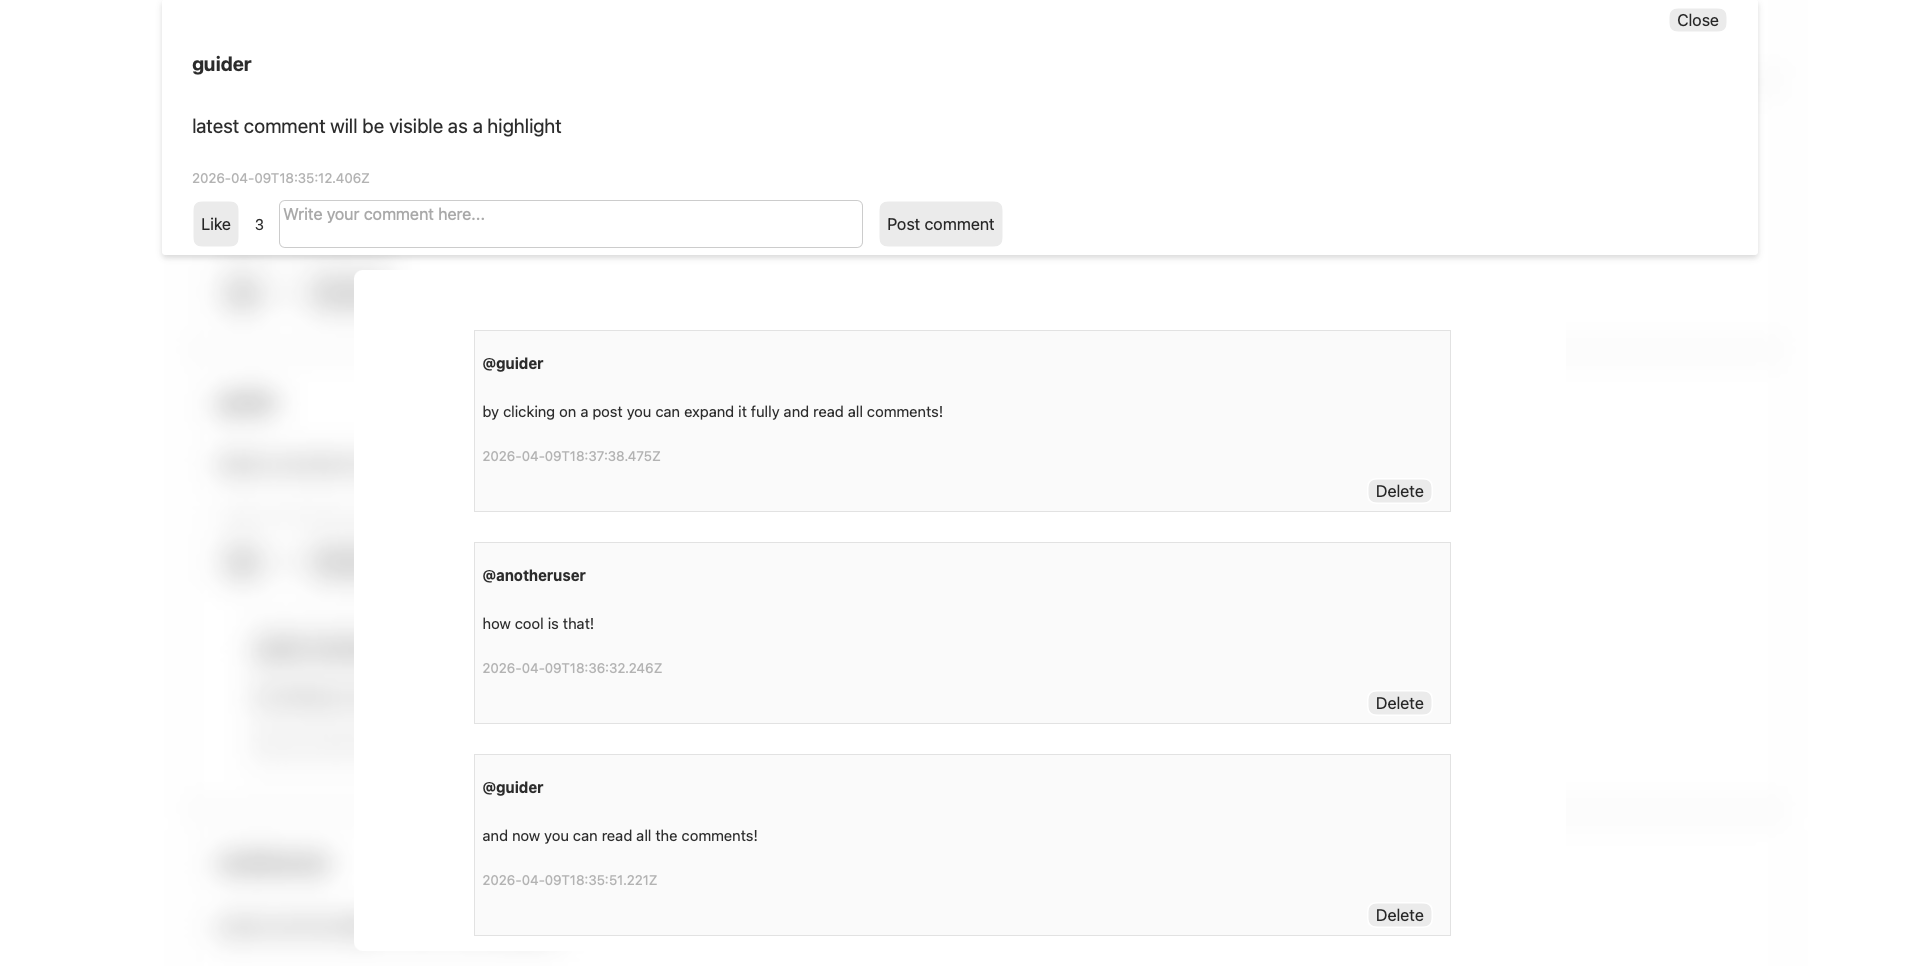
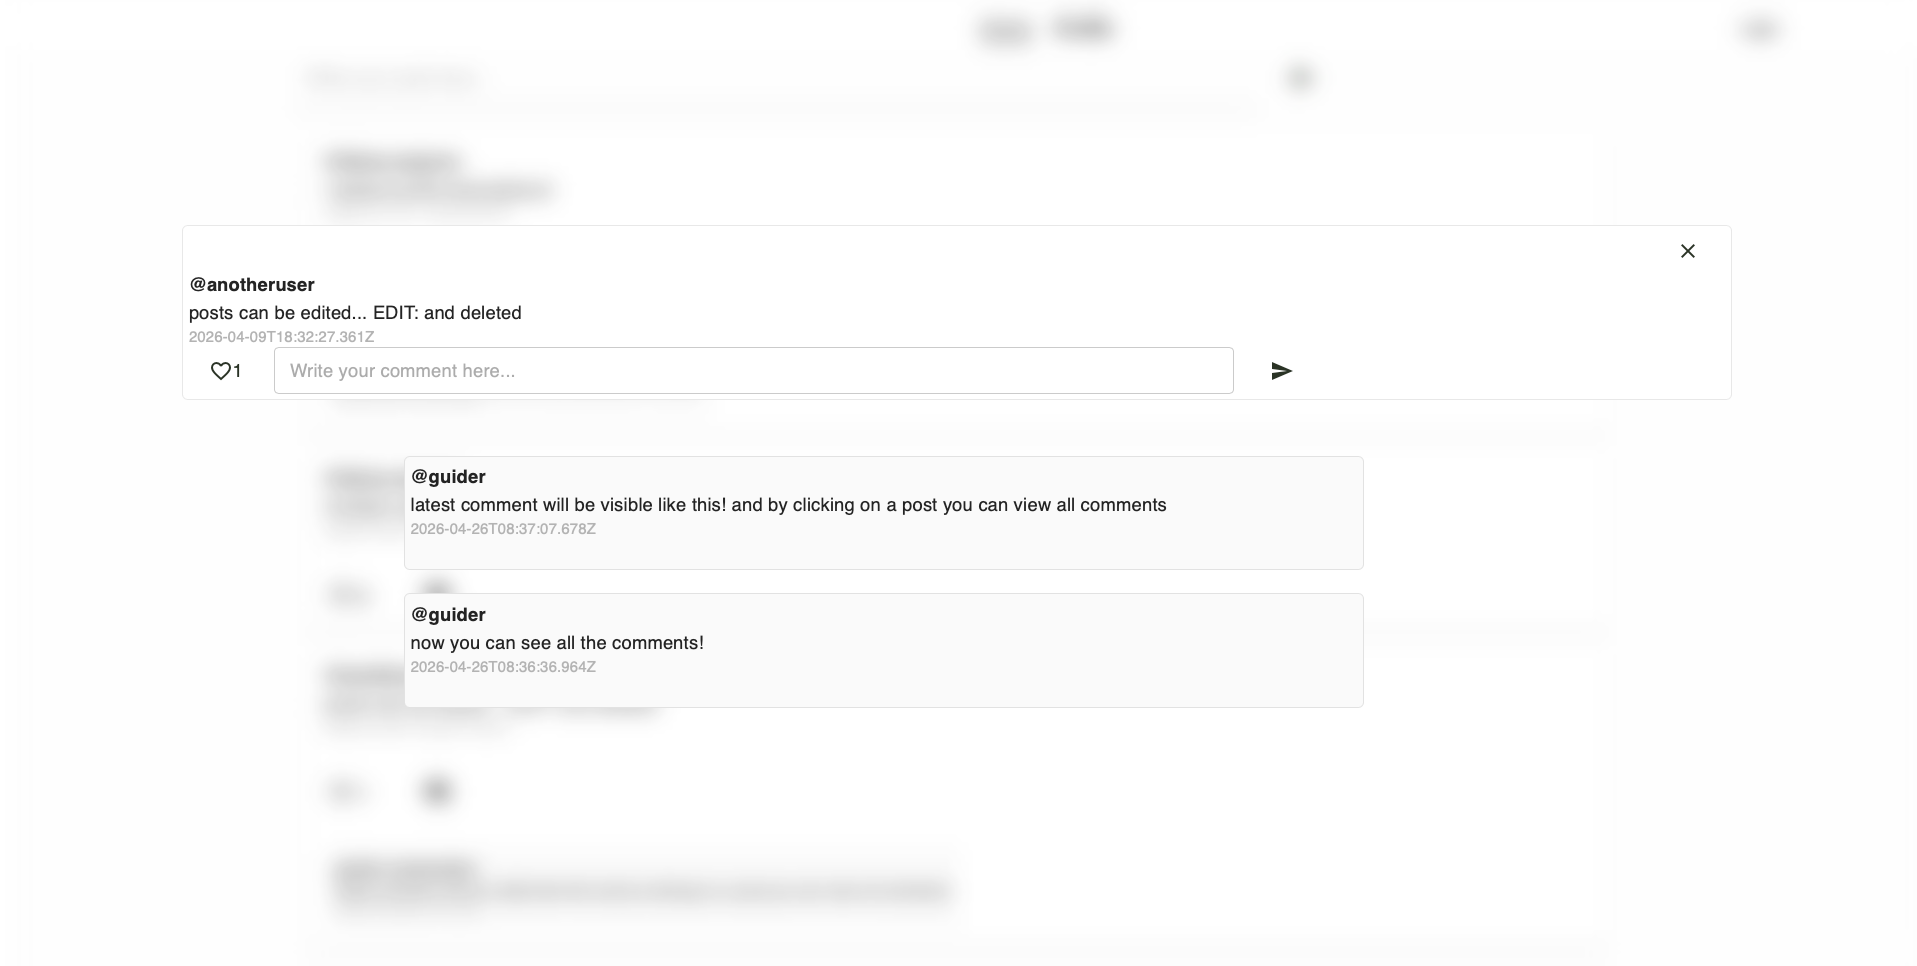
docs(README.md): edit README.md according to the latest release and add screenshots of the latest version

diff --git a/README.md b/README.md
@@ -3,9 +3,8 @@
 ## Overview
 
 **Echo** is a text based blog app where you can share, like and comment posts while
-navigating a minimalistic UI. In individual profile sections you can view all
-posts done by the person and in the future likes and comments will be visible as
-well.
+navigating a minimalistic UI using MUI package. In individual profile sections you can view all
+posts or comments done by the person.
 
 [Check it out here! (live demo)](https://echo-fullstack-blog-app.onrender.com)
 
@@ -28,7 +27,13 @@ Stable releases with realised functionalities are better found in releases.
 ![image](./screenshots/post-view.png)
 (Individual post view)
 ![image](./screenshots/profile-view.png)
-(Profile view, desciprtion and switching between posts, likes and comments not implemented)
+(Profile view with description handling and ability to view users posts and comments)
+![image](./screenshots/profile-not-logged.png)
+(Profile view when not logged in)
+![image](./screenshots/login-page.png)
+(Login page)
+![image](./screenshots/register-page-with-error.png)
+(Register page and error message for invalid input. Similar to login error messages visually)
 
 ## Tech
 
@@ -40,6 +45,8 @@ Stable releases with realised functionalities are better found in releases.
 - **JSDoc**
 - **Passport** + **Session** + **bcrypt**
 - **Joi**
+- **MaterialUI**
+- **Jest** + **SuperTest**
 
 ## Link to the deployed project
 
@@ -52,13 +59,20 @@ Stable releases with realised functionalities are better found in releases.
 - Individual **post** view when clicking on a post to see all comments
 - **Likes** to show appreciation for a post
 - **Editing a post** directly in a post card
-- **Profile view** to view all posts, likes and comments made by user (still in development)
+- **Profile view** to view all posts and comments made by user
 - **Description** can be edited in profile to showcase to other users (opening other profiles in development still)
 - **Authentication, login and registration** with Passport, Session and Bcrypt. No one can change other persons data
 - **Input validation with JOI**
 - **Descriptive error messages** (not yet visible in frontend)
+- Minimalistic and clean UI using **Material UI**
+- All endpoints tested with **Jest + Supertest**
 
-## Installation
+## Using project without installastion
+
+This project doesn't require installation and is fully hosted on Render.com
+[here](https://echo-fullstack-blog-app.onrender.com).
+
+## Installation to run locally
 
 1. Open a terminal and go to the `container` folder:
    ```
@@ -68,16 +82,22 @@ Stable releases with realised functionalities are better found in releases.
    ```
    npm install
    ```
-3. Start the app locally:
+3. Create a Postgres database.
+
+   > For local database configuration, copy `container/backend/.env.example` to
+   > `container/backend/.env` and fill in your database values. Session secret can
+   > be randomly generated
+
+4. Start the app locally:
    ```
    npm run start
    ```
 
 This runs the frontend with Vite and the backend together.
+App will create the tables by itself on first initialization.
 
-> For local database configuration, copy `container/backend/.env.example` to
-> `container/backend/.env` and fill in your database values. Session secret can
-> be randomly generated
+5. EXTRA STEP (if mock data is needed there is insertData.js script in backend/database/ folder)
+   > By running it you create some guiding and mock posts, likes and comments with three accounts
 
 ## Database structure
 
@@ -106,9 +126,13 @@ This runs the frontend with Vite and the backend together.
 
 AI has been used through this project for debugging purposes especially in frontend
 and searching for typos in routing. AI has been also used to describe concepts and
-to help with SQL join queries.
+to help with SQL join queries and Jest + Supertest testings debugging.
 While creating authentication logic AI was used to explain the theme and tools
-available.
+available. Also debugging authentication with AI.
+Consulting with AI about grading in general terms to see where I'm heading.
+
+AI has made InsertData.js files script with the data I've given it, to preserve data
+between Render.com free database expirations.
 
 Tools used:
 
@@ -118,6 +142,11 @@ Tools used:
 During creation of authentication, login and registering logic these tutorials
 and articles were helpful:
 
+- [Release notes template to understand what is needed in them](https://gist.github.com/andreasonny83/24c733ae50cadf00fcf83bc8beaa8e6a)
 - [Video I ended up using the most. Passport + Session + Bcrypt](https://www.youtube.com/watch?v=-RCnNyD0L-s&list=LL&index=3)
+- [Some logic for individual post popup was found here](https://www.youtube.com/watch?v=Gy4G68WoHq4&t=940s)
 - [Another video that was helpful to understand the context](https://www.youtube.com/watch?v=nI8PYZNFtac&list=LL&index=5&t=532s)
 - [Article I used to understand React and Passport interaction](https://www.freecodecamp.org/news/react-passport-authentication/)
+- [Snackbar for error and success messages tutorial](https://www.youtube.com/watch?v=bLp0uLaez_w&list=LL&index=2)
+- [Jest testing tutorial](https://www.youtube.com/watch?v=FgnxcUQ5vho)
+- [Jest + Supertest for Node server](https://www.youtube.com/watch?v=FKnzS_icp20&t=390s)
